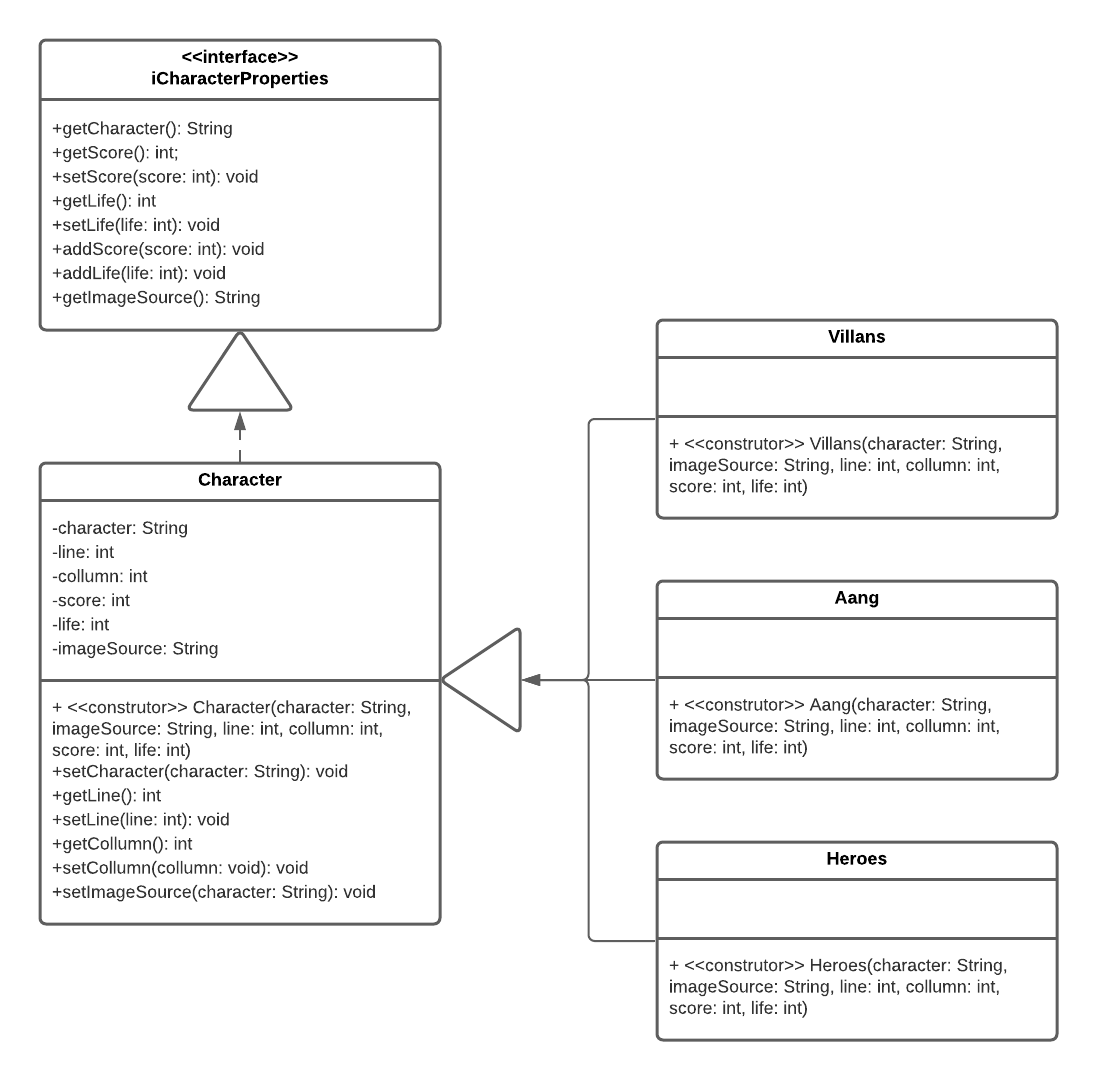
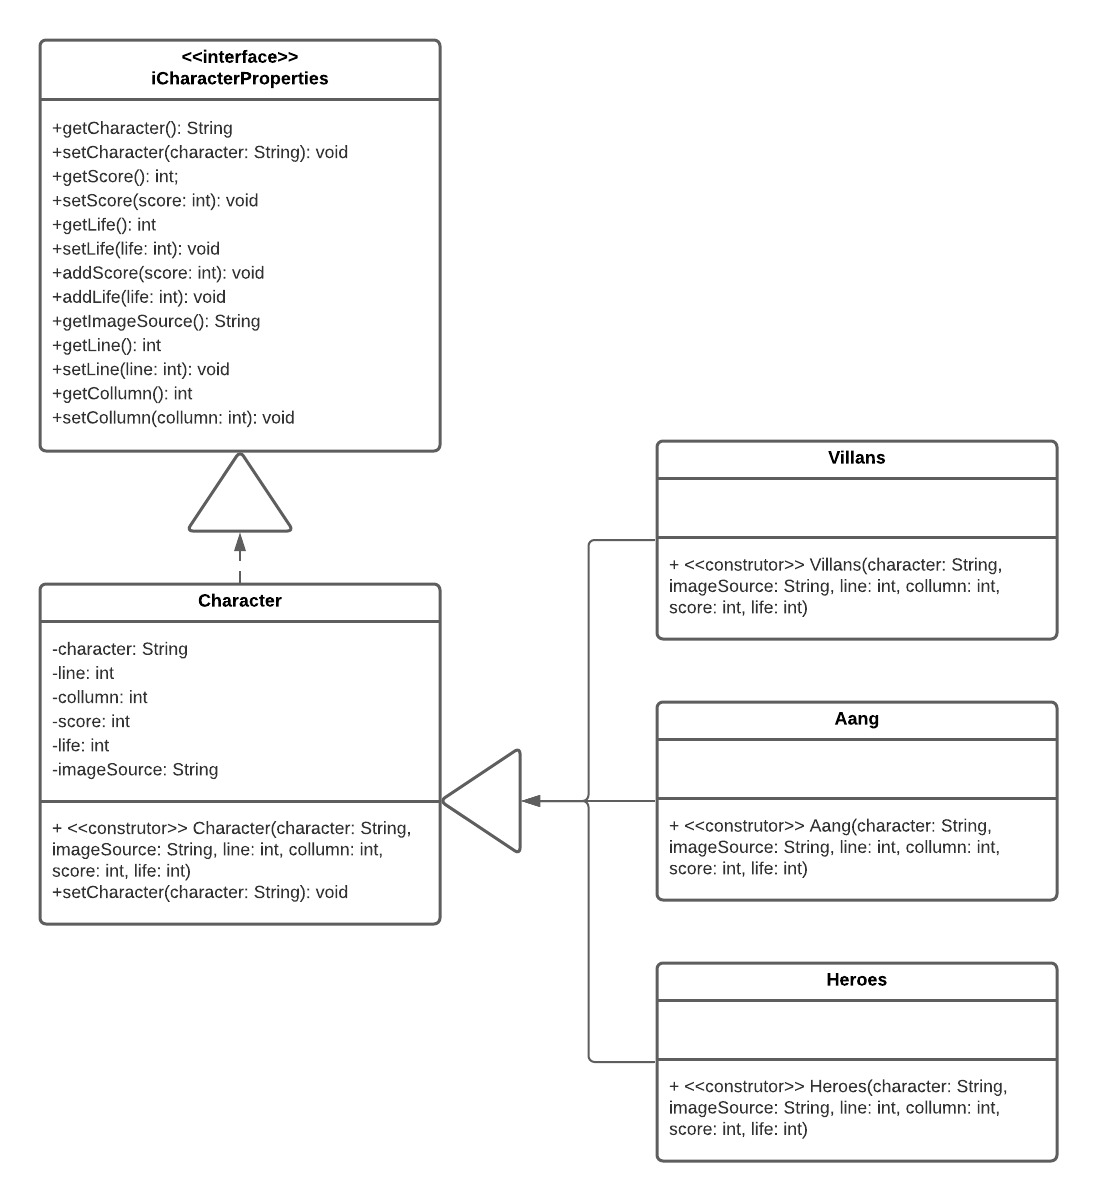
Implementação na Documentação dos componentes e interfaces

diff --git a/src/CharacterComponent/iCharacterProperties.java b/src/CharacterComponent/iCharacterProperties.java
@@ -5,6 +5,8 @@ import javafx.scene.image.ImageView;
 public interface iCharacterProperties {
     public String getCharacter();
 
+    public void setCharacter(String character);
+
     public String getImageSource();
 
     public void setScore(int score);
@@ -21,11 +23,9 @@ public interface iCharacterProperties {
 
     public int getLine();
 
-    public int getCollumn();
-
-    public void setCharacter(String character);
-
     public void setLine(int line);
+
+    public int getCollumn();
 
     public void setCollumn(int collumn);
 }

diff --git a/src/BoardComponent/iBoardProperties.java b/src/BoardComponent/iBoardProperties.java
@@ -5,6 +5,7 @@ import CharacterComponent.iCharacterProperties;
 
 public interface iBoardProperties {
     public int getLevel();
+    
     public void setLevel(int level);
 
     public void setCellBoard(iCharacterProperties character, int line, int collumn);

diff --git a/README.md b/README.md
@@ -62,7 +62,7 @@ Aqui ficarão as mídias do projeto: vídeo, imagens, animações, slides etc.
 
 ## Diagrama Geral do Projeto
 
-![Diagrama Geral](./arquivos-apresentacao/arquitetura-geral.jpeg)
+![Diagrama Geral](./arquivos-apresentacao/Arquitetura-Geral.png)
 
 ## Diagrama Geral de Componentes
 
@@ -110,9 +110,9 @@ Interfaces associadas a esse componente:
 
 ![Diagrama Interfaces](./arquivos-apresentacao/Cell-Component.png)
 
-## Componente `Level`
+## Componente `Board`
 
-> Demonimamos como componente Level um conjunto de classes e interfaces descritas a seguir. Este componente é responsável por agregar as células de um tabuleiro e seus atributos ou a criação da luta com o vilão da fase.
+> Demonimamos como componente Board um conjunto de classes e interfaces descritas a seguir. Este componente é responsável por agregar as células de um tabuleiro e seus atributos ou a criação da luta com o vilão da fase.
 > 
 ![Componente](./arquivos-apresentacao/level.jpg)
 
@@ -148,7 +148,7 @@ Interfaces | `iBuilderProperties`
 
 Interfaces associadas a esse componente:
 
-![Diagrama Interfaces](./arquivos-apresentacao/Builder-Component.jpeg)
+![Diagrama Interfaces](./arquivos-apresentacao/Builder-Component.png)
 
 ## Componente `GameController`
 
@@ -172,7 +172,7 @@ Interfaces associadas a esse componente:
 
 ## Componente `GraphControllerComponent`
 
-> Ainda iremos fazer, mas demonimamos como componente graphController a classe descrita a seguir. Este componente é responsável pelo controle dos gráficos do jogo.
+> Demonimamos como componente graphController uma classe e uma interface descrita a seguir. Este componente é responsável pelo controle geral do gráfico do jogo, separando o gráficos por: BoardScreen (tabuleiro), FightScreen (tela de batalha com vilão), InitialScreen (tela inicial de instruções do jogo), e PlayAgainScreen (tela de vitória ou derrota do jogo).
 
 ![Componente](./arquivos-apresentacao/graphController.jpg)
 
@@ -188,7 +188,7 @@ Interfaces |
 
 Interfaces associadas a esse componente:
 
-`Não há interfaces atreladas a este componente.`
+![Componente](./arquivos-apresentacao/GraphController-Component.png)
 
 ## Detalhamento das Interfaces
 
@@ -199,6 +199,7 @@ Informa e altera os atributos de um personagem.
 public interface iCharacterProperties {
     String getCharacter();
     void setCharacter(String character);
+    String getImageSource();
     int getLine();
     void setLine(int line);
     int getCollumn();
@@ -216,6 +217,7 @@ Método | Objetivo
 -------| --------
 `getCharacter` | Retorna o nome personagem que está na célula.
 `setCharacter` | Altera o nome personagem que está na célula.
+`getImageSource` | Retorna o caminho até a imagem do personagem.
 `getLine` | Retorna a linha que o personagem se encontra.
 `setLine` | Altera a linha que o personagem se encontra.
 `getCollumn` | Retorna a coluna que o personagem se encontra.
@@ -300,8 +302,8 @@ Interface que provê algumas das funções do tabuleiro
 public interface iBuilderProperties {
     void setCellsNeeded(boolean cellsNeeded);
     boolean getCellsNeeded();
-    void setBoardWidth(int boardWidth);
-    void setBoardHeight(int boardHeight);
+    void getBoardWidth(int boardWidth);
+    void getBoardHeight(int boardHeight);
 }
 ~~~
 
@@ -309,35 +311,62 @@ Método | Objetivo
 -------| --------
 `setCellsNeeded` | Atribui se é preciso células (pois caso sim, trata-se de um tabuleiro)
 `getCellsNeeded` | Retorna se é preciso de células para a construção daquela fase
-`setBoardWidth` | Atribui um valor para o tamanho do tabuleiro
-`setBoardHeight` | Atribui um valor para o altura do tabuleiro
+`getBoardWidth` | Retorna a largura do tabuleiro
+`getBoardHeight` | Retorna a altura do tabuleiro
 
-### Interface `iControllerPropeties`
+### Interface `iGameControllerPropeties`
 
 Interface que atualiza a interface gráfica
 
 ~~~java
 public interface iGameControllerProperties {
-    boolean getIsGameFinalized();
+    void play(String CSV);
+    iBuilderProperties getBoard();
+    iCharacterProperties getAvatar();
+    void resetGame();
 }
 ~~~
 
 Método | Objetivo
 -------| --------
-`getIsGameFinalized` | Retorna se o jogo está finalizado
+`play` | Chama a função do Builder para construir o jogo.
+`getBoard` | Retorna o tabuleiro.
+`getAvatar` | Retorna as informações atreladas ao Avatar em iCharacterProperties.
+`resetGame` | Reinicia o jogo.
+
+### Interface `iGraphControllerPropeties`
+
+Interface que atualiza a interface gráfica
+
+~~~java
+public interface iGraphControllerProperties {
+    iGameControllerProperties getGame();
+    void setGame(iGameControllerProperties game);
+    Stage getStage();
+    void setStage(Stage fixStage);
+}
+~~~
+
+Método | Objetivo
+-------| --------
+`getGame` | Retorna o tabuleiro da fase.
+`setGame` | Altera o tabuleiro da fase.
+`getStage` | Retorna a fase.
+`setStage` | Altera  a fase.
 
 # Plano de Exceções
 
 ## Diagrama da hierarquia de exceções
 
-![Hierarquia Exceções](./arquivos-apresentacao/Exception-hierarchy.jpeg)
+![Hierarquia Exceções](./arquivos-apresentacao/Exception-Hierarchy.png)
 
 ## Descrição das classes de exceção
 
 
 Classe | Descrição
 ----- | -----
-InvalidAction | Engloba todas as exceções de ações não aceitas.
-InvalidMovement | Indica que o movimento para fora do tabuleiro é inútil.
-InvalidCommand | Indica a ação feita com uma tecla inválida é inútil na fase de tabuleiro.
-InvalidAttack | Indica a ação feita com uma tecla inválida é inútil na fase de batalha com vilão.
+InvalidKey | Engloba todas as exceções de ações feitas com teclas inválidas.
+InvalidKeyBoard | Indica a ação feita com uma tecla inválida é inútil na fase de tabuleiro.
+InvalidKeyFight | Indica a ação feita com uma tecla inválida é inútil na fase de batalha com vilão.
+InvalidMovement | Engloba as exceções de movimentos não aceitos no tabuleiro
+OutOfBoard | Indica que o movimento para fora do tabuleiro é inútil.
